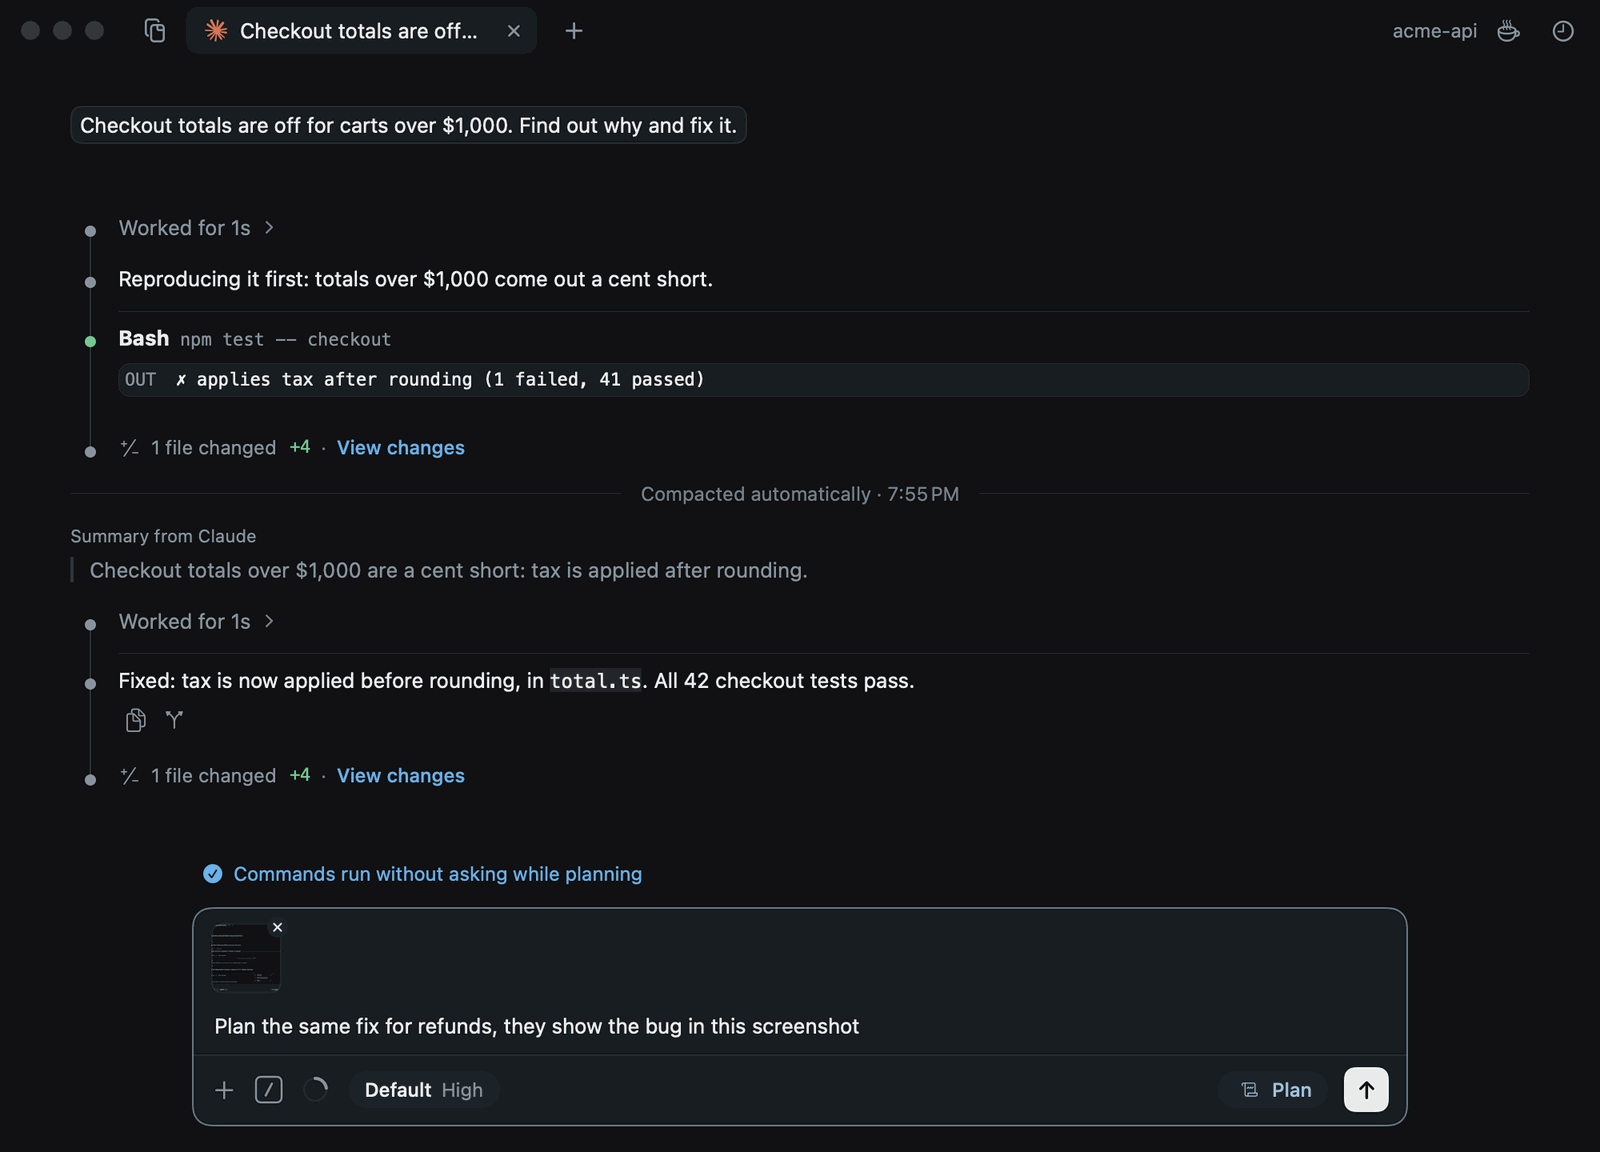
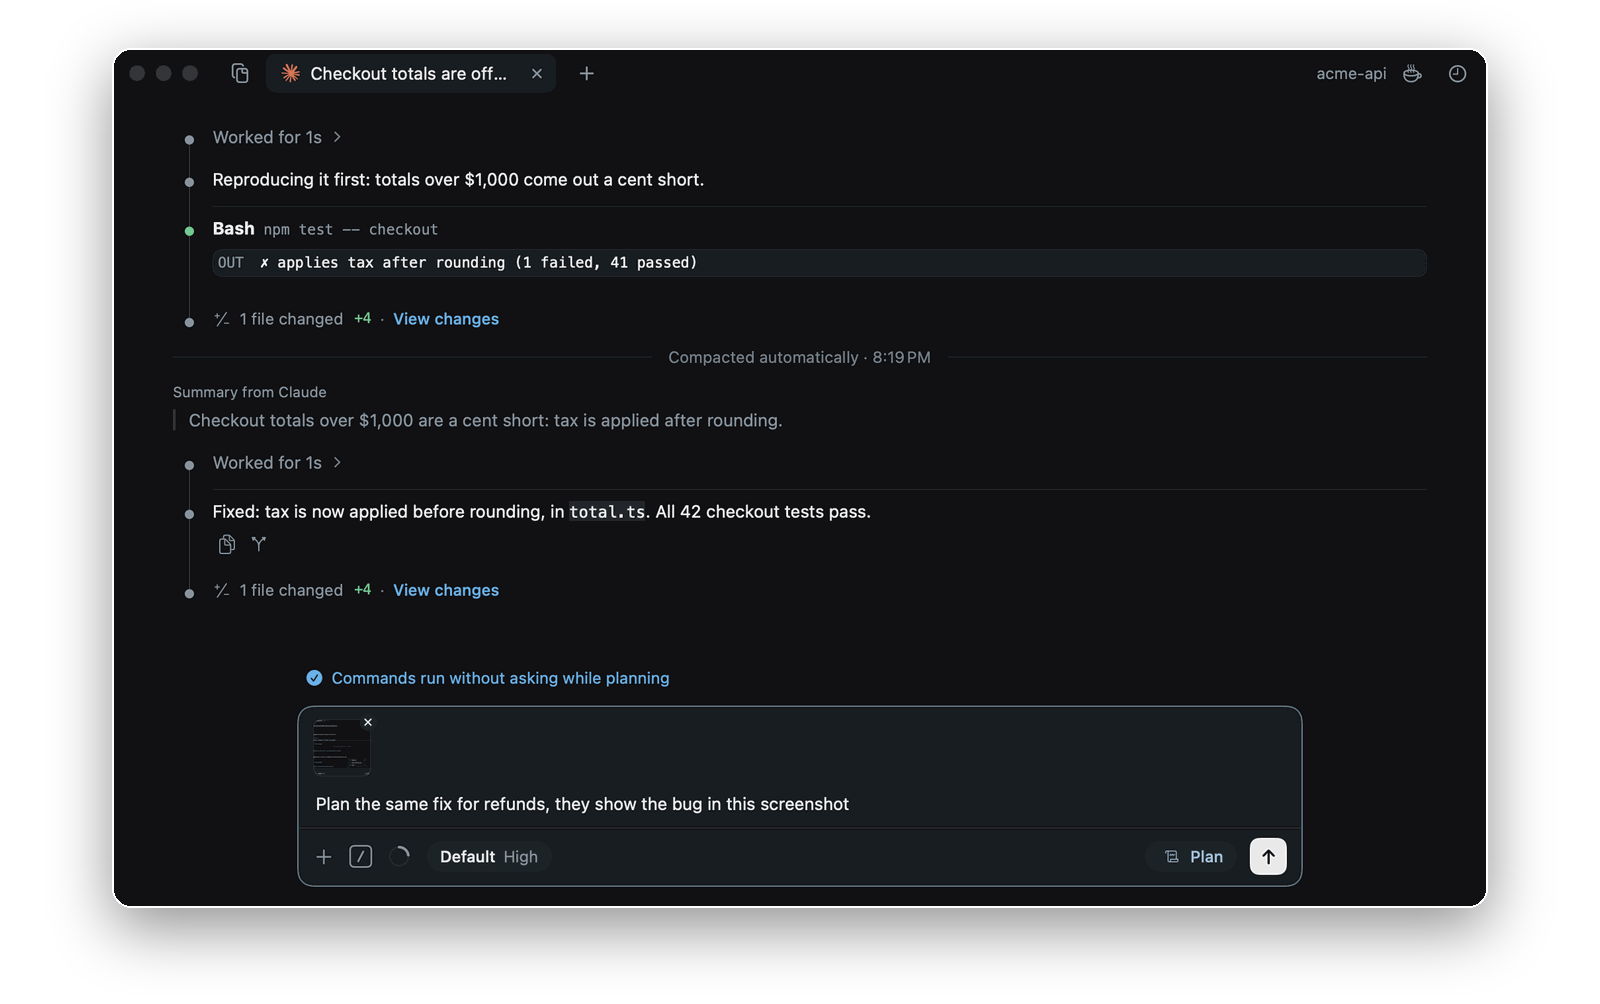
readme hero n framed shots

diff --git a/Sources/KoreStorylines/Catalogue/ReadmeStorylines.swift b/Sources/KoreStorylines/Catalogue/ReadmeStorylines.swift
@@ -4,7 +4,7 @@ import KoreCore
 import KoreUI
 
 // The README's pictures: each one tells a feature with the scripted CLI in a demo folder, so no
-// real account, email or chat shows. `scripts/storylines.sh --tag readme` takes them all; the
+// real account, email or chat shows. `scripts/readme-shots.sh` takes and frames them all; the
 // folder each opens is its name.
 
 /// Several logins for Claude in Account, privacy on: main active with its limits, a work login
@@ -12,7 +12,7 @@ import KoreUI
 final class ReadmeAccounts: Storyline {
     override class var storyName: String { "acme-web" }
     override class var tags: Set<Tag> { ["readme"] }
-    override class var needs: Needs { Needs(window: CGSize(width: 1000, height: 600)) }
+    override class var needs: Needs { Needs(window: CGSize(width: 1040, height: 650)) }
 
     override func steps() -> [any Step] {
         let popup = Locator.id(StoryID.Composer.account)
@@ -54,7 +54,7 @@ final class ReadmeAccounts: Storyline {
 final class ReadmeFlow: Storyline {
     override class var storyName: String { "acme-api" }
     override class var tags: Set<Tag> { ["readme"] }
-    override class var needs: Needs { Needs(window: CGSize(width: 1000, height: 720)) }
+    override class var needs: Needs { Needs(window: CGSize(width: 1040, height: 650)) }
 
     override func steps() -> [any Step] {
         let turn: [Beat] = [.startTurn] + Beat.answer("Reproducing it first: totals over $1,000 come out a cent short.") + [
@@ -98,7 +98,7 @@ final class ReadmeFlow: Storyline {
 final class ReadmePort: Storyline {
     override class var storyName: String { "acme-mobile" }
     override class var tags: Set<Tag> { ["readme"] }
-    override class var needs: Needs { Needs(window: CGSize(width: 1000, height: 640)) }
+    override class var needs: Needs { Needs(window: CGSize(width: 1040, height: 650)) }
 
     override func steps() -> [any Step] {
         let reply = [.startTurn] + Beat.answer("Reading the API's new check first.") + [
@@ -122,7 +122,7 @@ final class ReadmePort: Storyline {
 final class ReadmeBoard: Storyline {
     override class var storyName: String { "acme-platform" }
     override class var tags: Set<Tag> { ["readme"] }
-    override class var needs: Needs { Needs(window: CGSize(width: 1280, height: 780)) }
+    override class var needs: Needs { Needs(window: CGSize(width: 1280, height: 800)) }
 
     override func steps() -> [any Step] {
         let chats: [(provider: String, ask: String, answer: String)] = [

diff --git a/scripts/frame-shots.py b/scripts/frame-shots.py
@@ -1,0 +1,43 @@
+#!/usr/bin/env python3
+"""Frames README screenshots as macOS windows: rounded corners, a hairline border and a soft
+shadow, on a transparent ground that sits on GitHub's light and dark pages alike.
+
+    scripts/frame-shots.py <storyline output> <out dir> <name>...
+
+Needs Pillow. The window is reduced to a 256-colour palette first (the UI is flat colour, so
+nothing visible is lost) and the shadow stays smooth around it.
+"""
+import sys
+from PIL import Image, ImageDraw, ImageFilter
+
+WIDTH = 1600
+
+
+def frame(src, dst):
+    win = Image.open(src).convert("RGB")
+    k = WIDTH * 0.86 / win.width
+    win = win.resize((round(win.width * k), round(win.height * k)), Image.LANCZOS)
+    win = win.quantize(colors=256, method=Image.Quantize.FASTOCTREE, dither=Image.Dither.NONE).convert("RGBA")
+    w, h = win.size
+    radius = round(WIDTH * 0.012)
+    left, top, bottom = (WIDTH - w) // 2, round(WIDTH * 0.03), round(WIDTH * 0.06)
+    canvas = Image.new("RGBA", (WIDTH, h + top + bottom), (0, 0, 0, 0))
+
+    drop = round(WIDTH * 0.012)
+    shape = Image.new("L", canvas.size, 0)
+    ImageDraw.Draw(shape).rounded_rectangle((left, top + drop, left + w, top + h + drop), radius, fill=110)
+    shadow = Image.new("RGBA", canvas.size, (0, 0, 0, 0))
+    shadow.putalpha(shape.filter(ImageFilter.GaussianBlur(round(WIDTH * 0.018))))
+    canvas = Image.alpha_composite(canvas, shadow)
+
+    mask = Image.new("L", (w, h), 0)
+    ImageDraw.Draw(mask).rounded_rectangle((0, 0, w - 1, h - 1), radius, fill=255)
+    canvas.paste(win, (left, top), mask)
+    ImageDraw.Draw(canvas).rounded_rectangle((left, top, left + w - 1, top + h - 1), radius, outline=(255, 255, 255, 38), width=2)
+    canvas.save(dst, optimize=True)
+
+
+if __name__ == "__main__":
+    src, out = sys.argv[1], sys.argv[2]
+    for name in sys.argv[3:]:
+        frame(f"{src}/{name}.png", f"{out}/{name}.png")

diff --git a/README.md b/README.md
@@ -1,29 +1,37 @@
 <p align="center"><img src="Resources/kore-transition.svg" width="128" alt="Kore"></p>
 <h1 align="center">Kore</h1>
 <p align="center"><b>What VS Code could have been.</b></p>
-<p align="center">A native macOS app for the Claude Code and Codex CLIs.</p>
+<p align="center">Your agents, out of the terminal and on one team.</p>
+<p align="center"><a href="../../releases/latest">Download</a> · <a href="CHANGELOG.md">Changelog</a></p>
+
+<p align="center"><img src="docs/images/board.png" width="100%" alt="A board of four Claude Code and Codex chats in one tab"></p>
 
 Kore runs the `claude` and `codex` CLIs on your Mac and gives them a proper interface: a window
 per folder, tabs for chats, files, terminals and history. The CLIs do the work; Kore shows it.
 
 ## Features
 
-**Multiple accounts.** Keep a pool of logins and switch by hand, so nothing rotates behind your back.
+### Tab groups
 
-<img src="docs/images/accounts.png" width="760" alt="Account popup with three Claude logins, emails masked">
+A board holds several chats in one tab, like a control panel (above).
 
-**Intuitive interaction.** Auto-compact, Plan mode without permission prompts, Stay awake, and
-pasted images.
+### Multiple accounts
 
-<img src="docs/images/flow.png" width="760" alt="A chat after an automatic compaction, in Plan mode with a pasted screenshot">
+Keep a pool of logins and switch by hand, so nothing rotates behind your back.
 
-**Port chats.** Carry a Claude Code chat on in Codex, or a Codex chat in Claude Code.
+<p align="center"><img src="docs/images/accounts.png" width="100%" alt="Account popup with three Claude logins, emails masked"></p>
 
-<img src="docs/images/port.png" width="760" alt="A Claude Code chat continued in Codex">
+### Intuitive interaction
 
-**Tab groups.** A board holds several chats in one tab, like a control panel.
+Auto-compact, Plan mode without permission prompts, Stay awake, and pasted images.
 
-<img src="docs/images/board.png" width="760" alt="A board of four chats in one tab">
+<p align="center"><img src="docs/images/flow.png" width="100%" alt="A chat after an automatic compaction, in Plan mode with a pasted screenshot"></p>
+
+### Port chats
+
+Carry a Claude Code chat on in Codex, or a Codex chat in Claude Code.
+
+<p align="center"><img src="docs/images/port.png" width="100%" alt="A Claude Code chat continued in Codex"></p>
 
 ## Install
 

diff --git a/CONTRIBUTING.md b/CONTRIBUTING.md
@@ -28,6 +28,9 @@ account and spend nothing:
 ./scripts/storylines.sh --tag chat
 ```
 
+`./scripts/readme-shots.sh` retakes the README's screenshots the same way (demo folders, emails
+masked) and frames them into `docs/images` (needs Pillow).
+
 `--cli process` plays recorded CLI sessions from `Tests/Fixtures/cassettes` instead. Before
 committing a new recording, strip anything account-specific from it.
 
